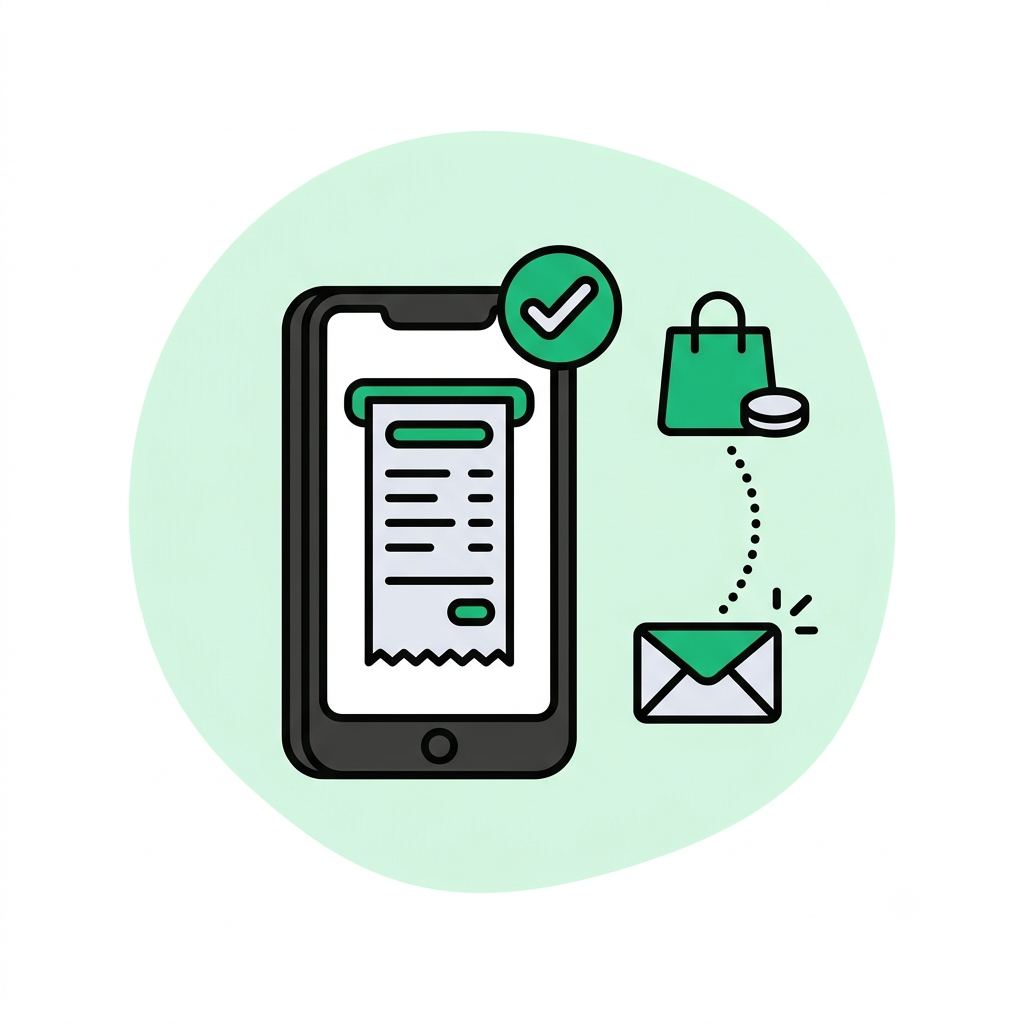
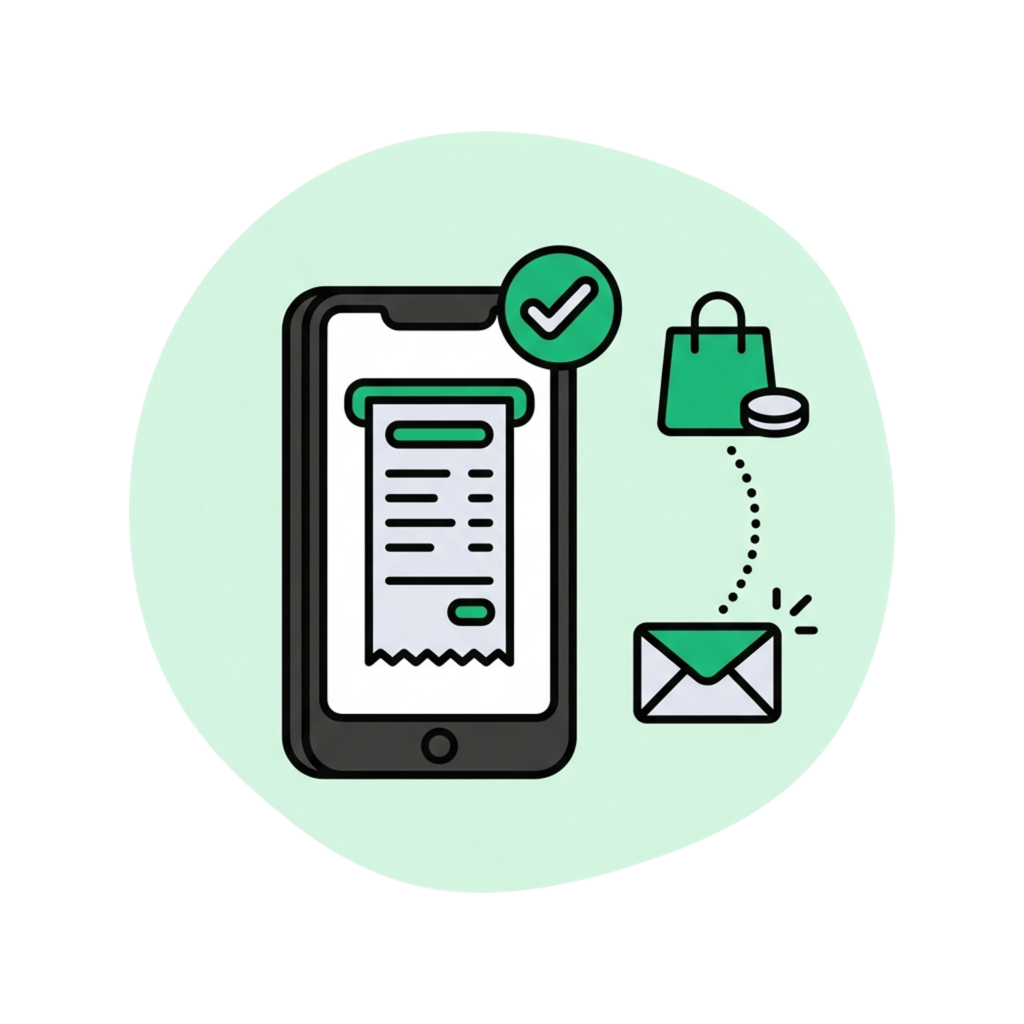
style(landing): transparent illustrations, bigger, drop section title
- Swap the "why 7sabek" illustrations for the transparent-background
  versions (no more white square behind the green blob).
- Render them larger (104px -> 176px) with a bigger numbered badge.
- Remove the section's subtitle ("Voilà comment 7sabek t'accompagne" /
  هاكا كيمشي معاك 7sabek), keeping only the "Étape par étape" eyebrow.

diff --git a/src/app/LandingPageClient.tsx b/src/app/LandingPageClient.tsx
@@ -52,7 +52,7 @@ type Copy = {
   chips: { rent: string; rentM: string; sal: string; salM: string; net: string; netM: string; debt: string; debtM: string; sav: string; savM: string };
   sc: { cycle: string; cash: string };
   env: { food: string; transport: string; fun: string; save: string; rent: string; net: string; debt: string; sal: string };
-  why: { kicker: string; title: string; items: Duo[] };
+  why: { kicker: string; items: Duo[] };
   sim: { kicker: string; income: string; left: string; fixed: string; fixedHint: string; pctHint: string };
   cmp: { kicker: string; title: string; a: string; b: string; rows: Array<[string, string]> };
   who: { kicker: string; title: string; items: Duo[] };
@@ -74,7 +74,6 @@ const COPY: Record<FloussyLocale, Copy> = {
     env: { food: "Courses", transport: "Transport", fun: "Sorties", save: "Épargne", rent: "Loyer", net: "Internet", debt: "Crédit voiture", sal: "Salaire" },
     why: {
       kicker: "Étape par étape",
-      title: "Voilà comment 7sabek t’accompagne",
       items: [
         { t: "On regarde qui tu es et où part ton argent", d: "Un état des lieux rapide de tes revenus et de tes dépenses, pour partir d’une base claire." },
         { t: "On te propose ta répartition", d: "Un programme de répartition pensé pour ton salaire, que tu ajustes avant de valider." },
@@ -134,7 +133,6 @@ const COPY: Record<FloussyLocale, Copy> = {
     env: { food: "Groceries", transport: "Transport", fun: "Going out", save: "Savings", rent: "Rent", net: "Internet", debt: "Car loan", sal: "Salary" },
     why: {
       kicker: "Step by step",
-      title: "Here’s how 7sabek has your back",
       items: [
         { t: "We look at who you are and where your money goes", d: "A quick snapshot of your income and spending, to start from a clear picture." },
         { t: "We suggest your split", d: "A distribution plan built for your salary, which you adjust before confirming." },
@@ -194,7 +192,6 @@ const COPY: Record<FloussyLocale, Copy> = {
     env: { food: "التقضية", transport: "التنقل", fun: "الخرجات", save: "الادخار", rent: "الكراء", net: "الأنترنيت", debt: "كريدي الطوموبيل", sal: "السالير" },
     why: {
       kicker: "خطوة بخطوة",
-      title: "هاكا كيمشي معاك 7sabek",
       items: [
         { t: "كنشوفو شكون نتا وفين كيمشيو الفلوس ديالك", d: "نظرة سريعة على الدخل والمصاريف ديالك، باش نبداو من صورة واضحة." },
         { t: "كنقترحو عليك برنامج التوزيع ديالك", d: "برنامج توزيع مبني على السالير ديالك، كتعدلو قبل ما تأكد." },
@@ -830,14 +827,13 @@ export default function LandingPageClient({ initialLocale }: LandingPageClientPr
           <div className="lp-wrap">
             <div className="lp-head lp-center">
               <span className="lp-kicker">{copy.why.kicker}</span>
-              <h2 className={`${headingClass} lp-h2`}>{copy.why.title}</h2>
             </div>
             <div className="lp-whygrid">
               {copy.why.items.map((item, index) => {
                 return (
                   <div key={item.t} className="lp-whycard">
                     <span className="lp-whyblob">
-                      <Image src={WHY_IMAGES[index]} alt={item.t} width={104} height={104} className="lp-whyimg" />
+                      <Image src={WHY_IMAGES[index]} alt={item.t} width={176} height={176} className="lp-whyimg" />
                       <span className="lp-whystep" dir="ltr">{`0${index + 1}`}</span>
                     </span>
                     <h3>{item.t}</h3>
@@ -1221,9 +1217,9 @@ export default function LandingPageClient({ initialLocale }: LandingPageClientPr
         .lp-whygrid { margin-top: 44px; display: grid; gap: 32px 20px; grid-template-columns: 1fr; text-align: center; }
         @media (min-width: 640px) { .lp-whygrid { grid-template-columns: repeat(2,1fr); } }
         @media (min-width: 1060px) { .lp-whygrid { grid-template-columns: repeat(4,1fr); } }
-        .lp-whyblob { position: relative; display: inline-flex; align-items: center; justify-content: center; width: 104px; height: 104px; margin-bottom: 18px; }
-        .lp-whystep { position: absolute; top: -2px; inset-inline-end: -2px; min-width: 22px; height: 22px; padding: 0 5px; border-radius: 999px; background: var(--accent-deep); color: #fff; font-size: .68rem; font-weight: 800; display: inline-flex; align-items: center; justify-content: center; box-shadow: 0 0 0 3px var(--surface); }
-        .lp-whyimg { width: 104px; height: 104px; }
+        .lp-whyblob { position: relative; display: inline-flex; align-items: center; justify-content: center; width: 176px; height: 176px; margin-bottom: 14px; }
+        .lp-whystep { position: absolute; top: 4px; inset-inline-end: 4px; min-width: 26px; height: 26px; padding: 0 6px; border-radius: 999px; background: var(--accent-deep); color: #fff; font-size: .76rem; font-weight: 800; display: inline-flex; align-items: center; justify-content: center; box-shadow: 0 0 0 3px var(--surface); }
+        .lp-whyimg { width: 176px; height: 176px; }
         .lp-whycard h3 { font-size: 1.04rem; font-weight: 800; }
         .lp-whycard p { margin-top: 8px; font-size: .87rem; line-height: 1.58; color: var(--ink-soft); }
 
